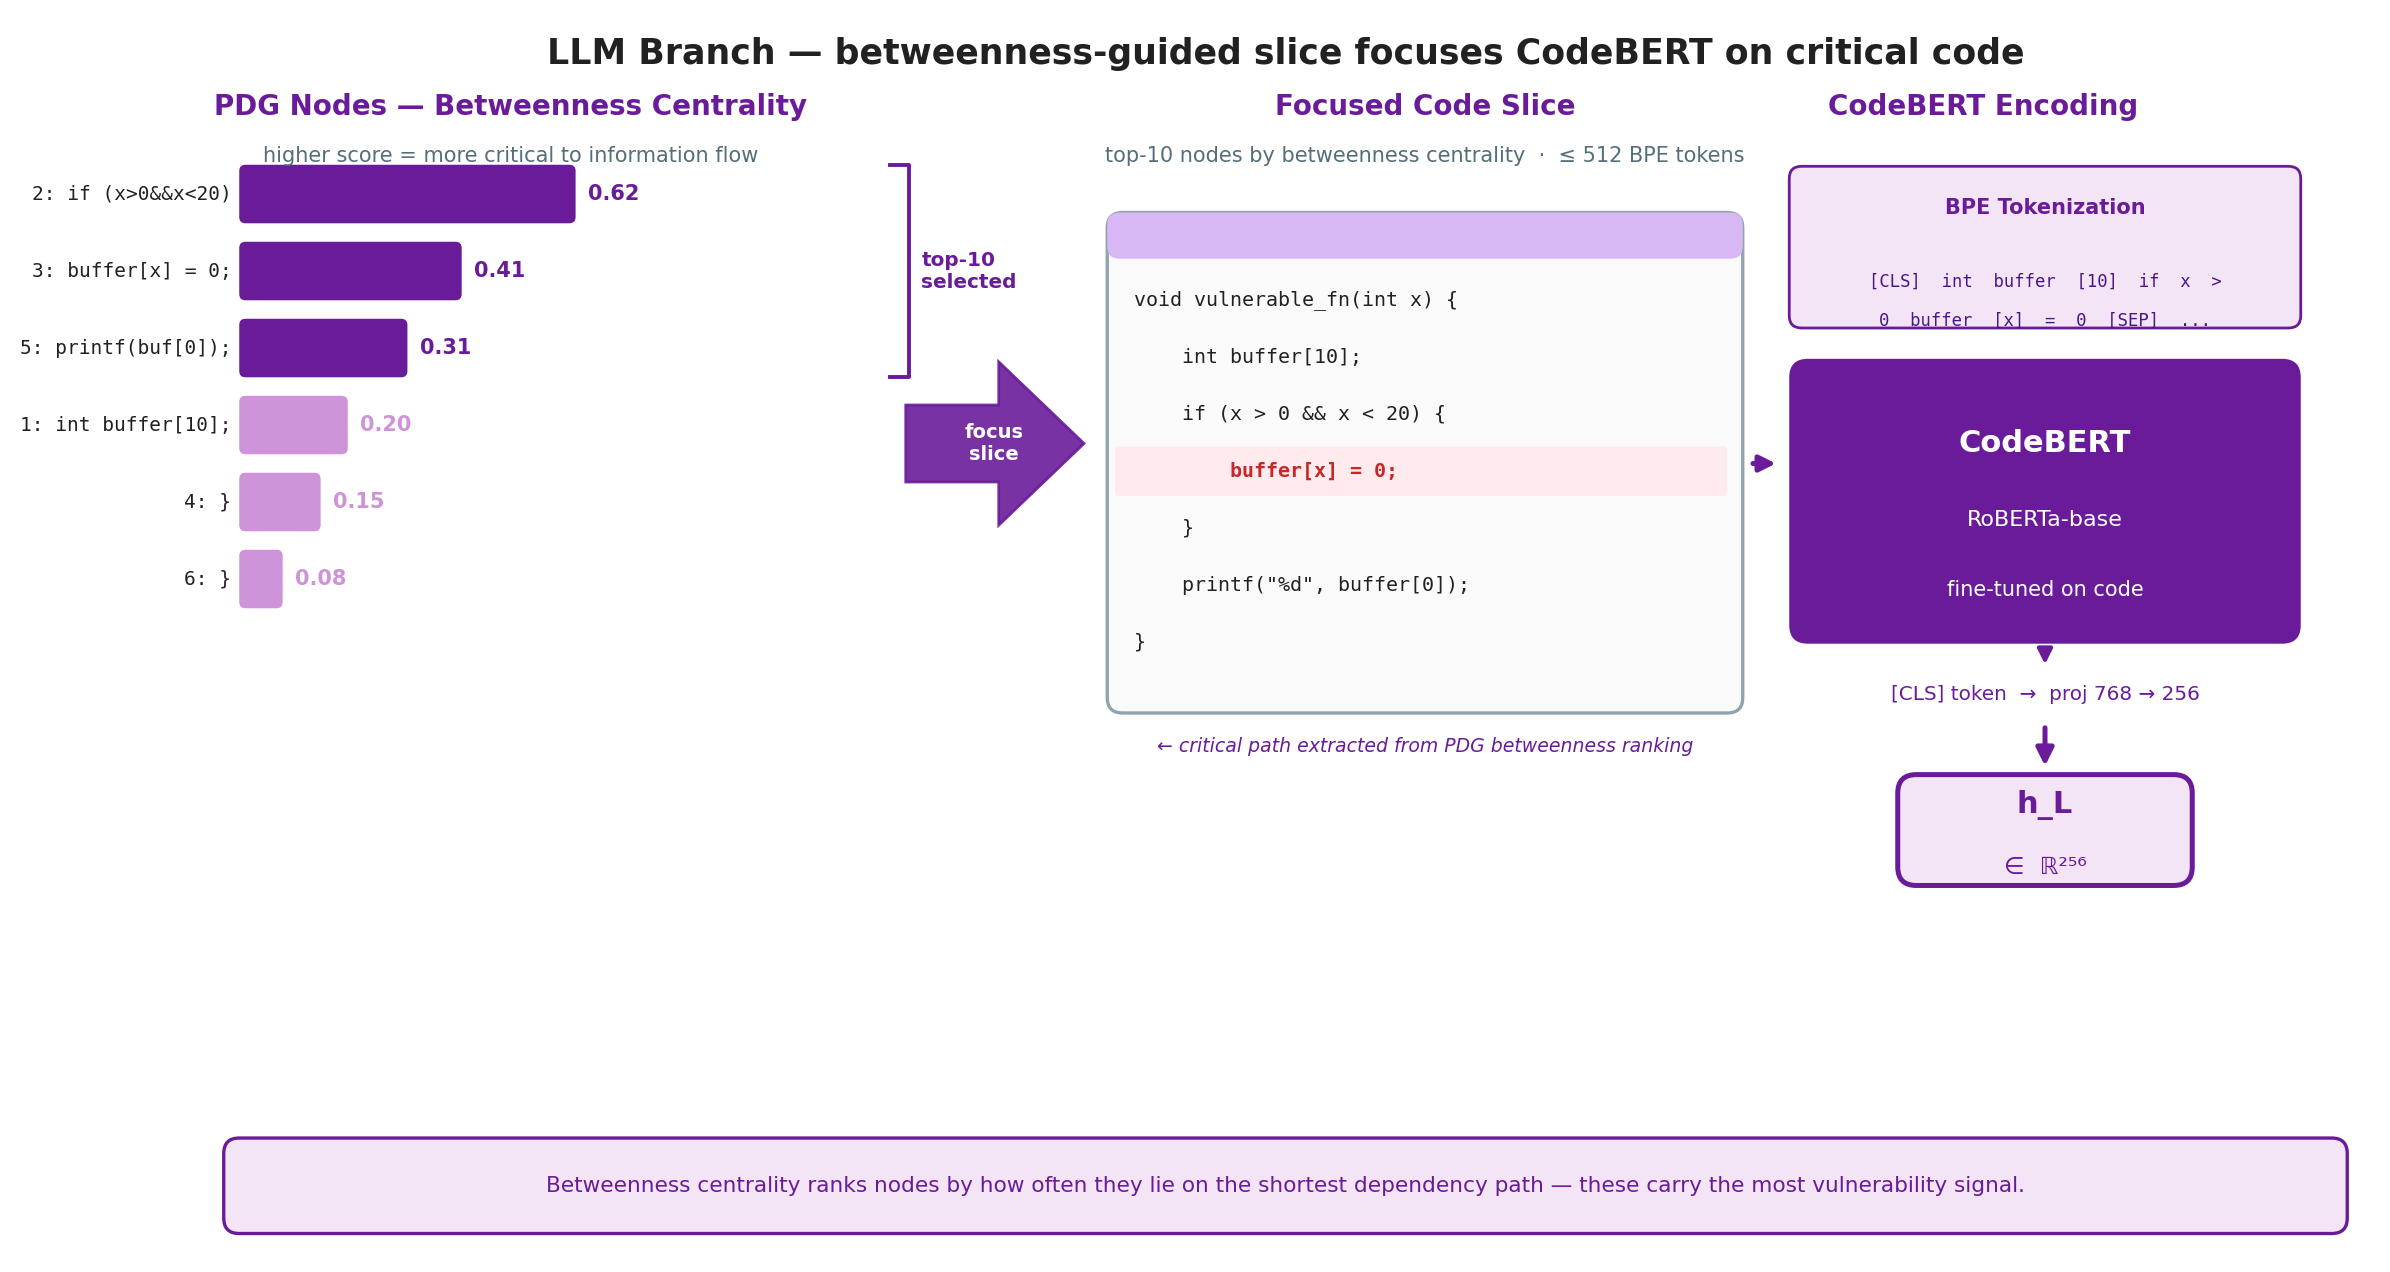
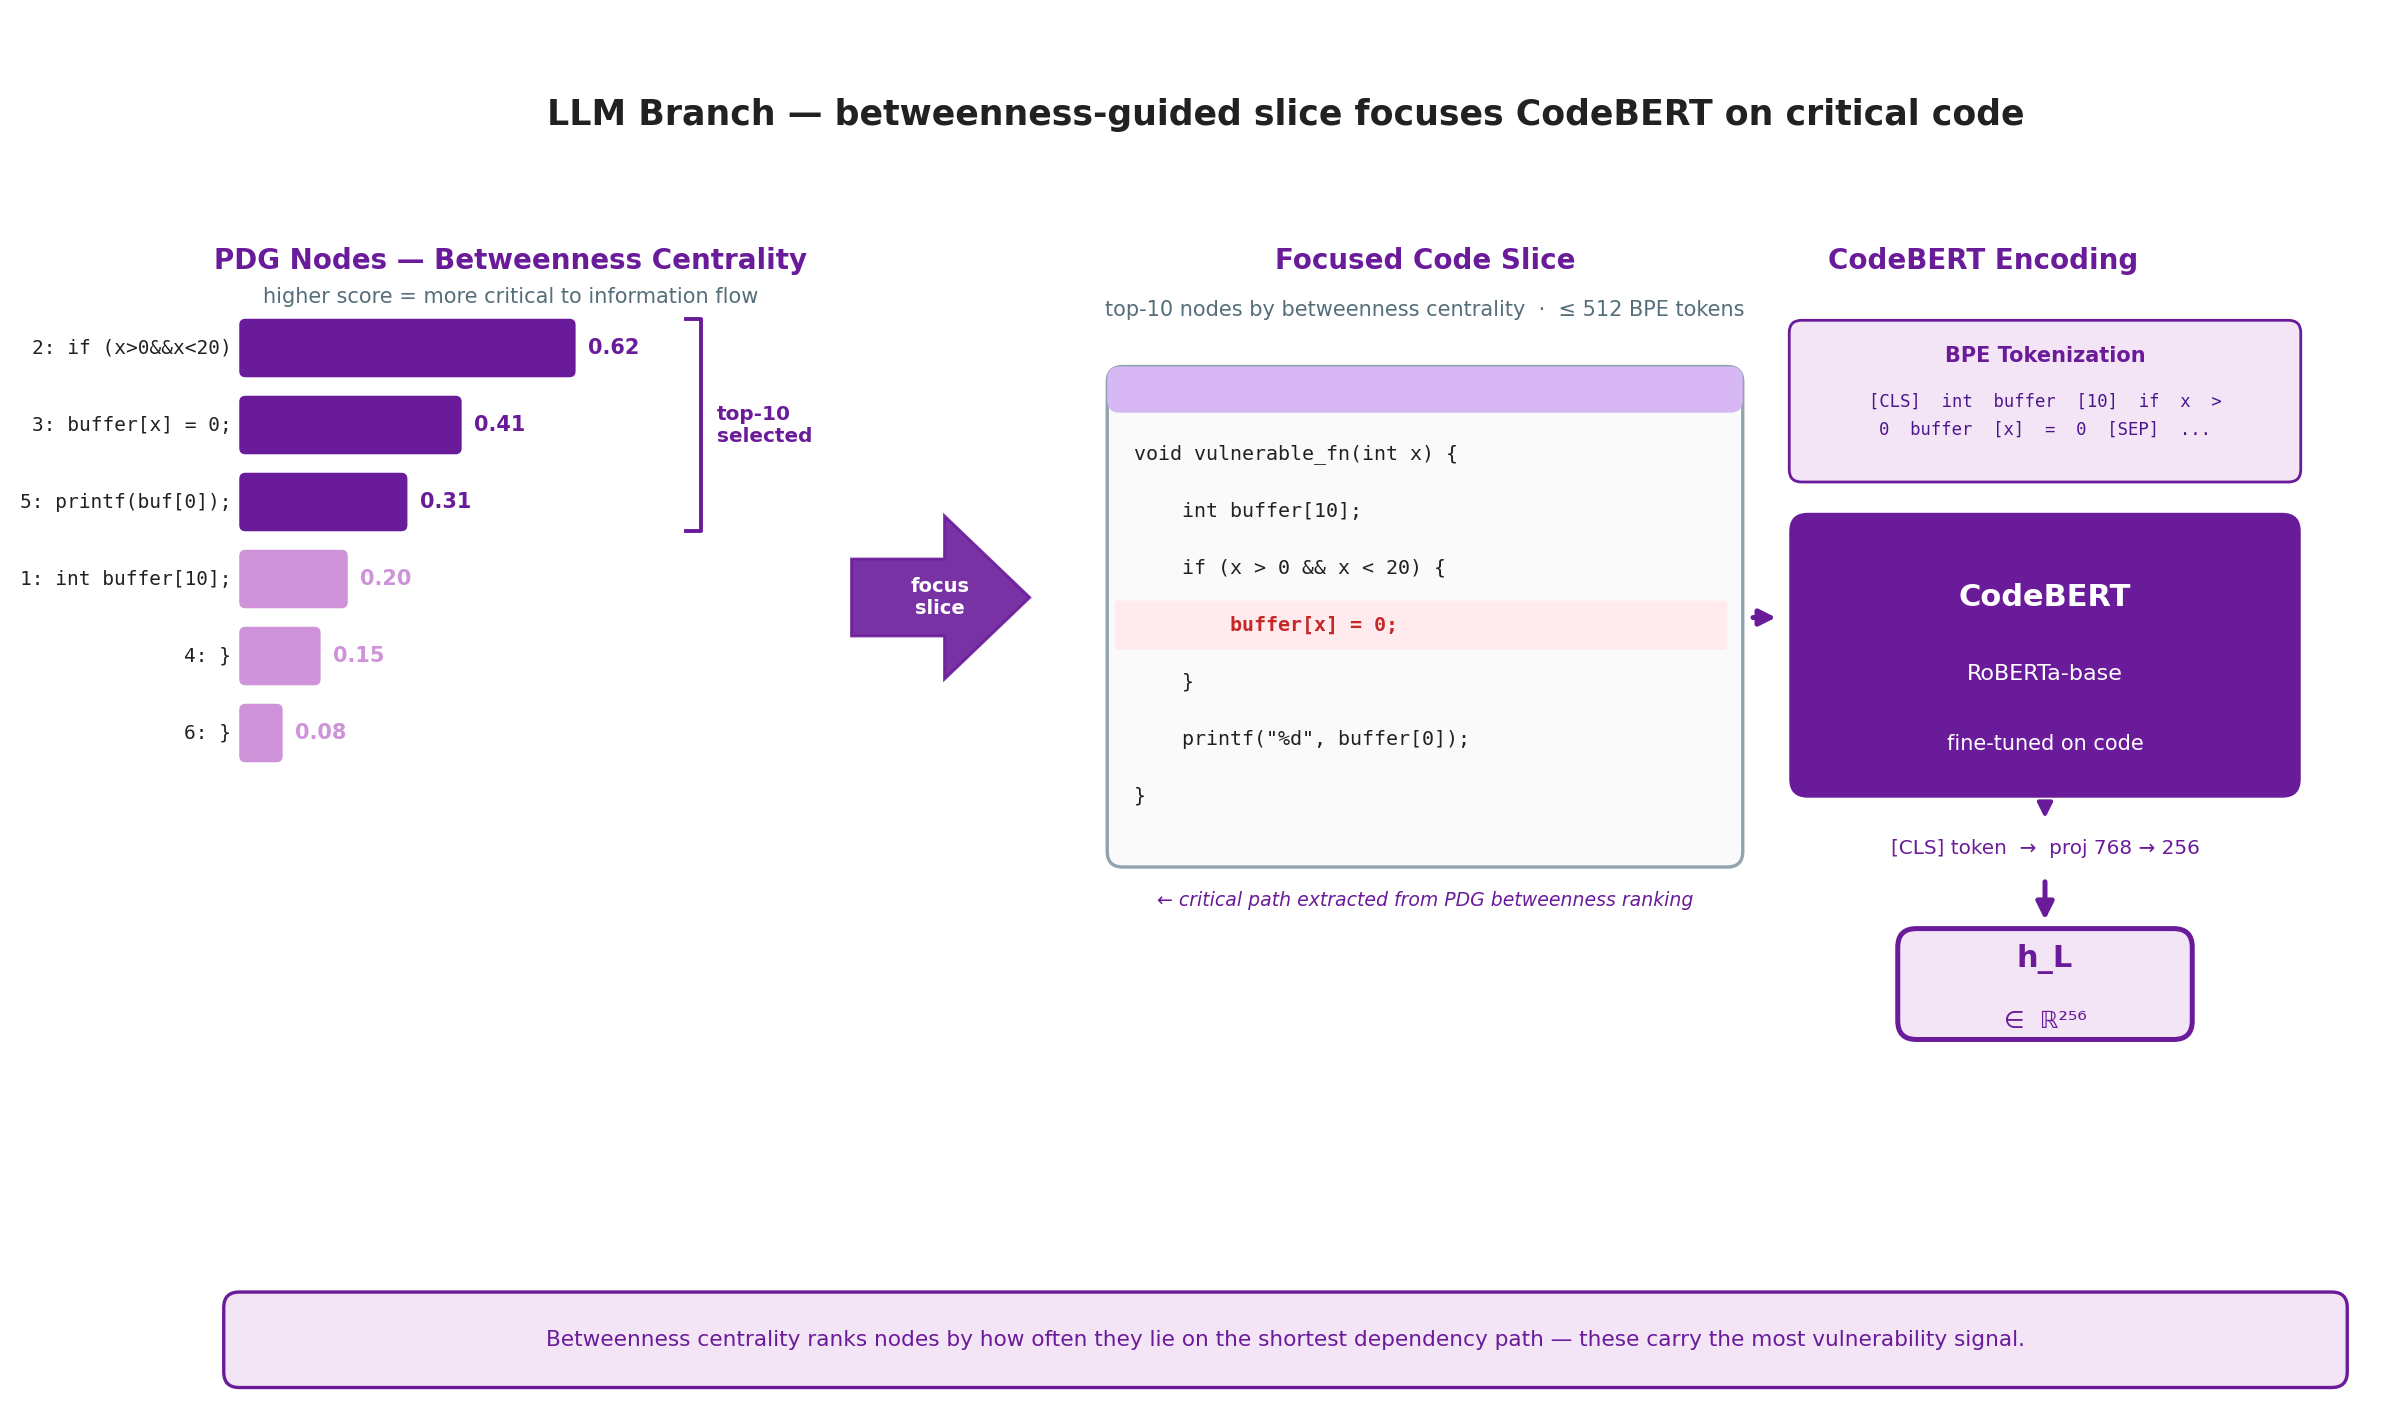
Refactor figure generation script for LLM branch with improved layout and organization

diff --git a/docs/figures/gen_fig07_llm_branch.py b/docs/figures/gen_fig07_llm_branch.py
@@ -2,24 +2,25 @@
 Run: python docs/figures/gen_fig07_llm_branch.py
 Output: docs/figures/fig07_llm_branch.png
 """
-import os, sys
-sys.path.insert(0, os.path.dirname(__file__))
-from _figstyle import txt, new_canvas, box, title, save
-from _figstyle import C_L, C_IN, C_BAD, BG_L
-import matplotlib.patches as mpatches
 import numpy as np
+import matplotlib.patches as mpatches
+from _figstyle import C_L, C_IN, C_BAD, BG_L
+from _figstyle import txt, new_canvas, box, title, save
+import os
+import sys
+sys.path.insert(0, os.path.dirname(__file__))
 
 C_HDR = "#6A1B9A"
 
-fig, ax = new_canvas(14, 8.0)
-title(ax, 7.0, 7.78,
+fig, ax = new_canvas(14, 9.0)
+title(ax, 7.0, 8.38,
       "LLM Branch — betweenness-guided slice focuses CodeBERT on critical code", fs=12.5)
 
 # ── LEFT: betweenness centrality bar chart ────────────────────────────────────
 txt(ax, 2.0, 7.38, "PDG Nodes — Betweenness Centrality", ha="center",
-        fontsize=10, fontweight="bold", color=C_L)
-txt(ax, 2.0, 7.08, "higher score = more critical to information flow",
-        ha="center", fontsize=7.5, color="#546E7A")
+    fontsize=10, fontweight="bold", color=C_L)
+txt(ax, 2.0, 7.16, "higher score = more critical to information flow",
+    ha="center", fontsize=7.5, color="#546E7A")
 
 nodes_bc = [
     ("2: if (x>0&&x<20)",  0.62, True),
@@ -29,10 +30,10 @@ nodes_bc = [
     ("4: }",               0.15, False),
     ("6: }",               0.08, False),
 ]
-bar_x0  = 0.25
+bar_x0 = 0.25
 bar_maxw = 3.5
-bar_y0  = 6.68
-bar_h   = 0.38
+bar_y0 = 6.68
+bar_h = 0.38
 bar_gap = 0.12
 
 for i, (lbl, score, top) in enumerate(nodes_bc):
@@ -41,31 +42,36 @@ for i, (lbl, score, top) in enumerate(nodes_bc):
     col = C_L if top else "#CE93D8"
     box(ax, bar_x0, y, w, bar_h, col, col, lw=0, rad=0.04, zo=4)
     txt(ax, bar_x0 + w + 0.08, y + bar_h/2, f"{score:.2f}",
-            ha="left", va="center", fontsize=7.5, color=col, fontweight="bold")
+        ha="left", va="center", fontsize=7.5, color=col, fontweight="bold")
     txt(ax, bar_x0 - 0.05, y + bar_h/2, lbl,
-            ha="right", va="center", fontfamily="monospace", fontsize=7.0, color="#212121")
+        ha="right", va="center", fontfamily="monospace", fontsize=7.0, color="#212121")
 
 # bracket annotation for top-3
 brx = bar_x0 + bar_maxw + 0.7
 brt = bar_y0 + bar_h
 brb = bar_y0 - 2*(bar_h + bar_gap)
-ax.plot([brx, brx+0.12, brx+0.12, brx], [brt, brt, brb, brb],
+ax.plot([brx-1.32, brx-1.22, brx-1.22, brx-1.32], [brt, brt, brb, brb],
         color=C_L, lw=1.4, zorder=8)
-txt(ax, brx+0.2, (brt+brb)/2, "top-10\nselected", ha="left", va="center",
-        fontsize=7.2, color=C_L, fontweight="bold")
+txt(ax, brx-1.12, (brt+brb)/2, "top-10\nselected", ha="left", va="center",
+    fontsize=7.2, color=C_L, fontweight="bold")
 
 # ── CENTER: arrow ─────────────────────────────────────────────────────────────
-pts = np.array([[4.55,5.5],[5.15,5.5],[5.15,5.78],[5.7,5.25],
-                [5.15,4.72],[5.15,5.0],[4.55,5.0]])
-ax.fill(pts[:,0], pts[:,1], color=C_L, zorder=8, alpha=0.90)
-txt(ax, 5.12, 5.25, "focus\nslice", ha="center", va="center",
-        fontsize=7.0, fontweight="bold", color="white")
+pts = np.array([[4.55-0.35, 5.5],
+                [5.15-0.35, 5.5],
+                [5.15-0.35, 5.78],
+                [5.7-0.35, 5.25],
+                [5.15-0.35, 4.72],
+                [5.15-0.35, 5.0],
+                [4.55-0.35, 5.0]])
+ax.fill(pts[:, 0], pts[:, 1], color=C_L, zorder=8, alpha=0.90)
+txt(ax, 5.12-0.35, 5.25, "focus\nslice", ha="center", va="center",
+    fontsize=7.0, fontweight="bold", color="white")
 
 # ── CENTER-RIGHT: focused code slice (code block) ─────────────────────────────
 txt(ax, 7.9, 7.38, "Focused Code Slice", ha="center",
-        fontsize=10, fontweight="bold", color=C_L)
+    fontsize=10, fontweight="bold", color=C_L)
 txt(ax, 7.9, 7.08, "top-10 nodes by betweenness centrality  ·  ≤ 512 BPE tokens",
-        ha="center", fontsize=7.5, color="#546E7A")
+    ha="center", fontsize=7.5, color="#546E7A")
 
 # code editor box
 box(ax, 5.85, 3.5, 4.1, 3.25, "#FAFAFA", "#90A4AE", lw=1.2, rad=0.1, zo=3)
@@ -83,58 +89,61 @@ code_slice = [
 for i, (line, vuln) in enumerate(code_slice):
     y = 6.18 - i*0.37
     if vuln:
-        box(ax, 5.9, y-0.16, 3.95, 0.32, "#FFEBEE", "#FFCDD2", lw=0, rad=0.02, zo=4)
+        box(ax, 5.9, y-0.16, 3.95, 0.32, "#FFEBEE",
+            "#FFCDD2", lw=0, rad=0.02, zo=4)
     txt(ax, 6.02, y, line, ha="left", va="center",
-            fontfamily="monospace", fontsize=7.2,
-            color=C_BAD if vuln else "#212121",
-            fontweight="bold" if vuln else "normal")
+        fontfamily="monospace", fontsize=7.2,
+        color=C_BAD if vuln else "#212121",
+        fontweight="bold" if vuln else "normal")
 
 txt(ax, 7.9, 3.28, "← critical path extracted from PDG betweenness ranking",
-        ha="center", va="center", fontsize=6.8, color=C_L, style="italic")
+    ha="center", va="center", fontsize=6.8, color=C_L, style="italic")
 
 # ── RIGHT: CodeBERT processing ────────────────────────────────────────────────
 txt(ax, 11.5, 7.38, "CodeBERT Encoding", ha="center",
-        fontsize=10, fontweight="bold", color=C_L)
+    fontsize=10, fontweight="bold", color=C_L)
 
 # arrow from code → CodeBERT
-ax.annotate("", xy=(10.2,5.12), xytext=(9.98,5.12),
+ax.annotate("", xy=(10.2, 5.12), xytext=(9.98, 5.12),
             arrowprops=dict(arrowstyle="-|>", color=C_L, lw=1.8, mutation_scale=12))
 
 # tokenization preview
 box(ax, 10.25, 6.0, 3.3, 1.05, BG_L, C_L, lw=1.0, rad=0.08, zo=4)
-txt(ax, 11.9, 6.78, "BPE Tokenization", ha="center", va="center",
-        fontsize=7.5, fontweight="bold", color=C_L)
-tokens = ["[CLS]","int","buffer","[10]","if","x",">","0","buffer","[x]","=","0","[SEP]"]
-txt(ax, 11.9, 6.3, "  ".join(tokens[:7]),
-        ha="center", va="center", fontfamily="monospace", fontsize=6.2, color="#4A148C")
-txt(ax, 11.9, 6.05, "  ".join(tokens[7:]) + "  ...",
-        ha="center", va="center", fontfamily="monospace", fontsize=6.2, color="#4A148C")
+txt(ax, 11.9, 6.82, "BPE Tokenization", ha="center", va="center",
+    fontsize=7.5, fontweight="bold", color=C_L)
+tokens = ["[CLS]", "int", "buffer", "[10]", "if",
+          "x", ">", "0", "buffer", "[x]", "=", "0", "[SEP]"]
+txt(ax, 11.9, 6.52, "  ".join(tokens[:7]),
+    ha="center", va="center", fontfamily="monospace", fontsize=6.2, color="#4A148C")
+txt(ax, 11.9, 6.34, "  ".join(tokens[7:]) + "  ...",
+    ha="center", va="center", fontfamily="monospace", fontsize=6.2, color="#4A148C")
 
 # CodeBERT box
 box(ax, 10.25, 3.95, 3.3, 1.85, C_L, C_L, lw=0, rad=0.12, zo=4)
 txt(ax, 11.9, 5.25, "CodeBERT", ha="center", va="center",
-        fontsize=11, fontweight="bold", color="white")
+    fontsize=11, fontweight="bold", color="white")
 txt(ax, 11.9, 4.75, "RoBERTa-base", ha="center", va="center",
-        fontsize=8.0, color="white")
+    fontsize=8.0, color="white")
 txt(ax, 11.9, 4.3,  "fine-tuned on code", ha="center", va="center",
-        fontsize=7.5, color="white")
+    fontsize=7.5, color="white")
 
 # [CLS] → projection → h_L
 ax.annotate("", xy=(11.9, 3.78), xytext=(11.9, 3.95),
             arrowprops=dict(arrowstyle="-|>", color=C_L, lw=1.5, mutation_scale=11))
 txt(ax, 11.9, 3.62, "[CLS] token  →  proj 768 → 256",
-        ha="center", va="center", fontsize=7.2, color=C_L)
+    ha="center", va="center", fontsize=7.2, color=C_L)
 
 ax.annotate("", xy=(11.9, 3.12), xytext=(11.9, 3.44),
             arrowprops=dict(arrowstyle="-|>", color=C_L, lw=1.8, mutation_scale=13))
 box(ax, 10.95, 2.38, 1.9, 0.72, BG_L, C_L, lw=1.8, rad=0.12, zo=5)
-txt(ax, 11.9, 2.9, "h_L",     ha="center", va="center", fontsize=11, fontweight="bold", color=C_L)
+txt(ax, 11.9, 2.9, "h_L",     ha="center", va="center",
+    fontsize=11, fontweight="bold", color=C_L)
 txt(ax, 11.9, 2.5, "∈  ℝ²⁵⁶", ha="center", va="center", fontsize=8.5, color=C_L)
 
 # ── BOTTOM: stats box ─────────────────────────────────────────────────────────
 box(ax, 0.15, 0.12, 13.7, 0.62, BG_L, C_L, lw=1.2, rad=0.1, zo=3)
 txt(ax, 7.0, 0.43, "Betweenness centrality ranks nodes by how often they lie on the shortest"
-        " dependency path — these carry the most vulnerability signal.",
-        ha="center", va="center", fontsize=7.8, color=C_L)
+    " dependency path — these carry the most vulnerability signal.",
+    ha="center", va="center", fontsize=7.8, color=C_L)
 
 save(fig, os.path.join(os.path.dirname(__file__), "fig07_llm_branch.png"))
